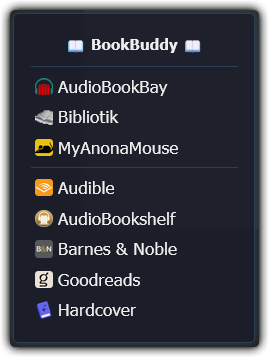
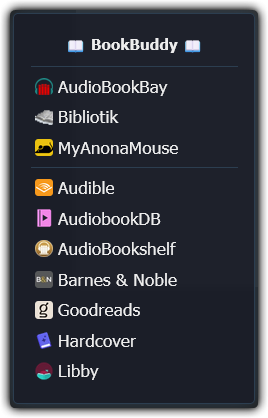
bookBuddy image

Changed region(s): [[0.1194, 0.1849, 0.6866, 0.9244], [0.0299, 0.0, 0.9552, 0.986], [0.2388, 0.0924, 0.7463, 0.1541]]

diff --git a/Other/BookBuddy.user.js b/Other/BookBuddy.user.js
@@ -2,15 +2,16 @@
 
 // ----------------------------------- MetaData --------------------------------------
 
-// @name        📖 BookBuddy
+// @name        BookBuddy
 // @author      WirlyWirly
 // @version     0.1
-// @homepage    
-// @description Your buddy when searching for books
+// @homepage    https://github.com/WirlyWirly/UserScripts/blob/main/Other/BookBuddy.user.js
+// @description Your buddy when searching for books across different sites
 //              Written on LibreWolf via Violentmonkey
 
-// @namespace   WirlyWirly
+// @namespace   https://github.com/WirlyWirly
[1 lines of base64/hex data omitted]
+// @run-at      document-end
 
 // ----------------------------------- Matches --------------------------------------
 
@@ -19,6 +20,9 @@
 
 // AudioBookBay
 // @match   https://audiobookbay.lu/abss/*
+
+// AudiobookDB
+// @match   https://audiobookdb.org/*
 
 // Audiobookshelf
 // @include /^.+/audiobookshelf/item/.+/
@@ -35,6 +39,9 @@
 // Hardcover
 // @match   https://hardcover.app/books/*
 
+// Libby
+// @match https://libbyapp.com/*
+
 // MyAnonaMouse
 // @include /^https://www.myanonamouse.net/t/\d+.*/
 
@@ -47,22 +54,25 @@
 
 // ----------------------------------- Dependencies --------------------------------------
 
-// @require   https://raw.githubusercontent.com/WirlyWirly/UserScripts/main/HelperScripts/waitForElement.js
+// @require     https://raw.githubusercontent.com/WirlyWirly/UserScripts/main/HelperScripts/waitForElement.js
 
 // ----------------------------------- Script Links --------------------------------------
 
-// @updateURL   
-// @downloadURL 
+// @updateURL   https://raw.githubusercontent.com/WirlyWirly/UserScripts/main/Other/BookBuddy.user.js?raw=true
+// @downloadURL https://raw.githubusercontent.com/WirlyWirly/UserScripts/main/Other/BookBuddy.user.js?raw=true
 
 // ==/UserScript==
 
 // The URL to your personal StashApp instance
 
+// =================================== Configurations ======================================
+
+// The URL of a Libby library
+let libbyLibraryURL = 'https://libbyapp.com/library/__YOURLIBRARY__'
 
 // The URL of an Audiobookshelf library
 let audiobookshelfURL = 'http://192.168.1.105:32060/audiobookshelf/library/465c95ac-e562-4ac0-b82a-66a2c3c2df86'
 
-// =================================== CODE ======================================
 
 // =================================== Site Specific Handling ======================================
 // Based on the URL of the current page, parse the necessary bookData to generate the floating BookBuddy panel
@@ -97,8 +107,20 @@ if ( pageURL.match(/audible/) ) {
 
     createSearchPanel(bookData)
 
+} else if ( pageURL.match(/audiobookdb/) ) {
+    // --- AudiobookDB ---
+
+    // pagination
+
+    // The title of the book
+    bookData.title = document.querySelector('div.book-detail h1').innerText
+
+    createSearchPanel(bookData)
+
 } else if ( pageURL.match(/audiobookshelf/) ) {
     // --- AudioBookShelf ---
+
+    // pagination
 
     // The title of the book
     bookData.title = document.querySelector('#itemTitle').innerText
@@ -116,6 +138,8 @@ if ( pageURL.match(/audible/) ) {
 } else if ( pageURL.match(/bibliotik/) ) {
     // --- Bibliotik ---
 
+    // pagination
+
     // The title of the book
     bookData.title = document.querySelector('#title').innerText
 
@@ -132,8 +156,20 @@ if ( pageURL.match(/audible/) ) {
 } else if ( pageURL.match(/hardcover/) ) {
     // --- Hardcover ---
 
+    // pagination
+
     // The title of the book
     bookData.title = document.querySelector('h1').innerText
+
+    createSearchPanel(bookData)
+
+} else if ( pageURL.match(/libby/) ) {
+    // --- Libby ---
+
+    // pagination
+
+    // The title of the book
+    bookData.title = document.querySelector('h1.screen-title-details-title').innerText
 
     createSearchPanel(bookData)
 
@@ -176,6 +212,10 @@ function searchTemplates({
     year == null ? year = '' : null
     publisher == null ? publisher = '' : null
 
+    // Convert a libbyLibraryURL to searchURL
+    let libbyData = libbyLibraryURL.match(/(http.+)\/library\/(.+)\/?$/)
+    libbySearchURL = `${libbyData[1]}/search/${libbyData[2]}`
+    
     let searchTemplatesArray = [
         // Each object in this array is a search template, for which a entry in the bookBuddy panel will be generated in this order
 
@@ -219,6 +259,13 @@ function searchTemplates({
         },
 
         {
+            name: 'AudiobookDB',
+            searchURL: `https://audiobookdb.org/search?q=${title}`,
+            color: '#B516A5',
[1 lines of base64/hex data omitted]
+        },
+
+        {
             name: 'AudioBookshelf',
             searchURL: `${audiobookshelfURL.match(/(.+)\/?$/)[1]}/search?q=${title}`,
             color: '#CD9D49',
@@ -245,6 +292,13 @@ function searchTemplates({
             color: '#6D88F8',
[1 lines of base64/hex data omitted]
         },
+
+        {
+            name: 'Libby',
+            searchURL: `${libbySearchURL}/search/query-${title}/page-1`,
+            color: '#A81C49',
[1 lines of base64/hex data omitted]
+        }
 
     ]
 
